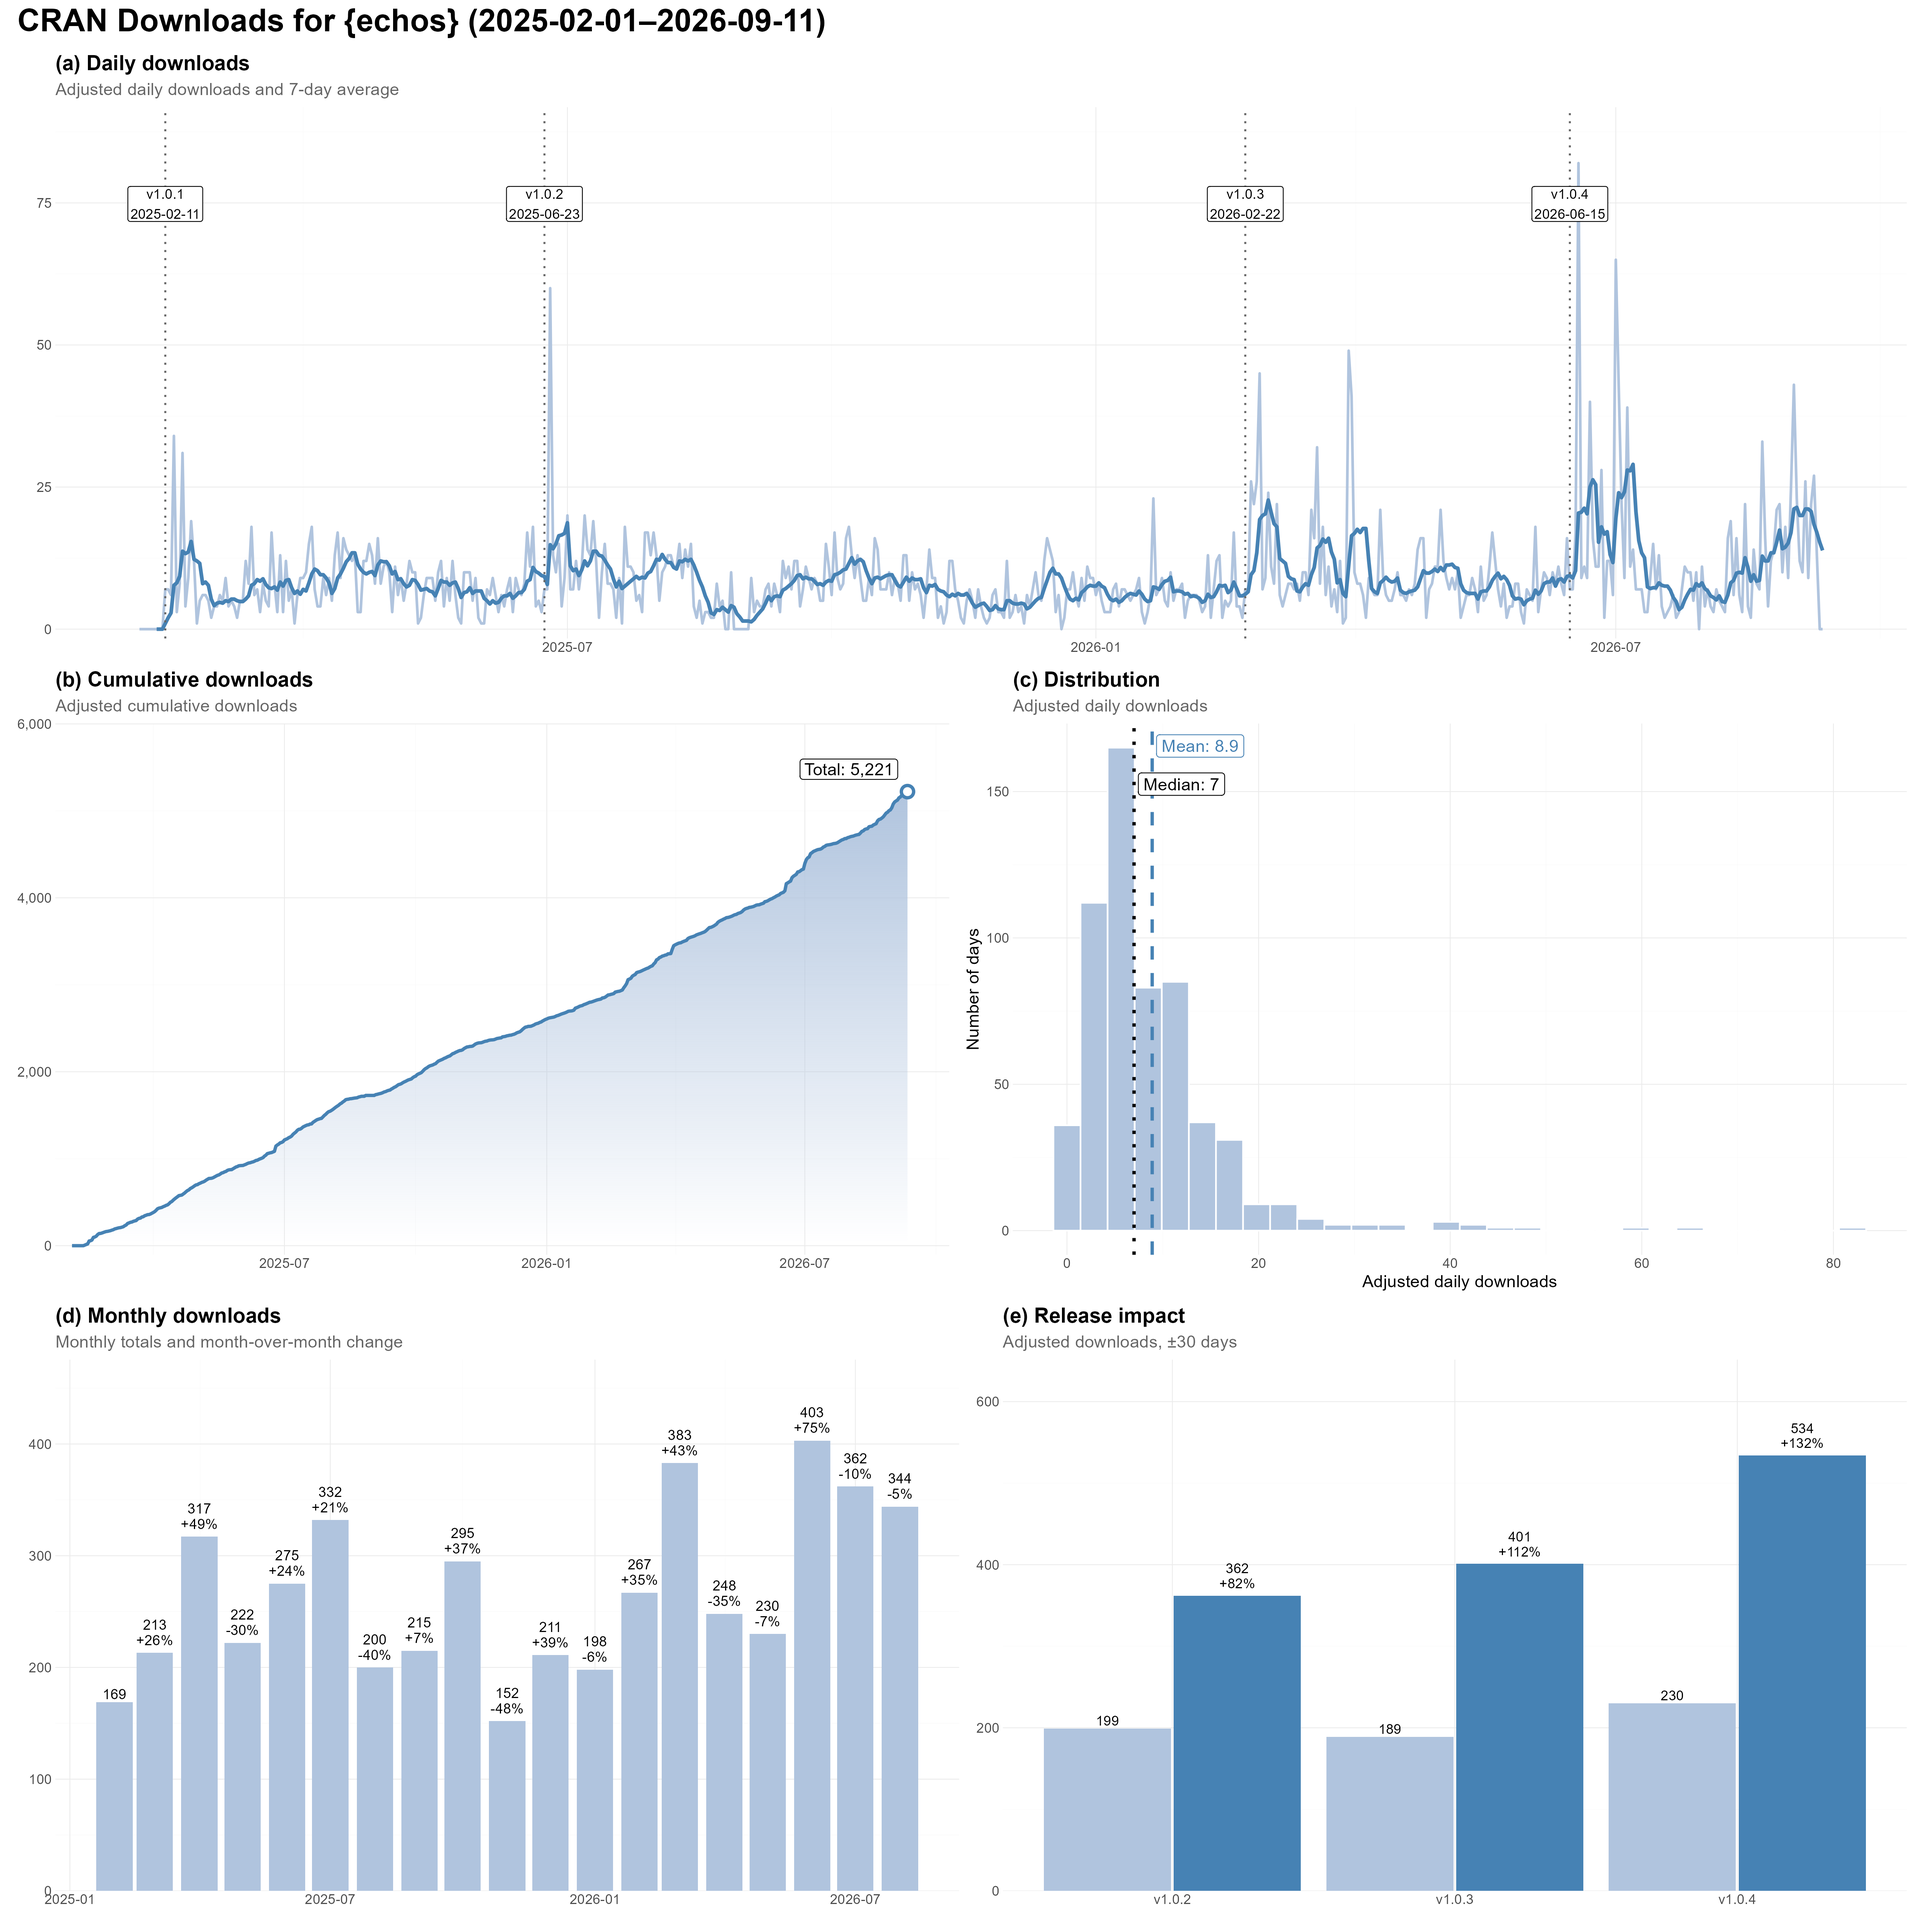
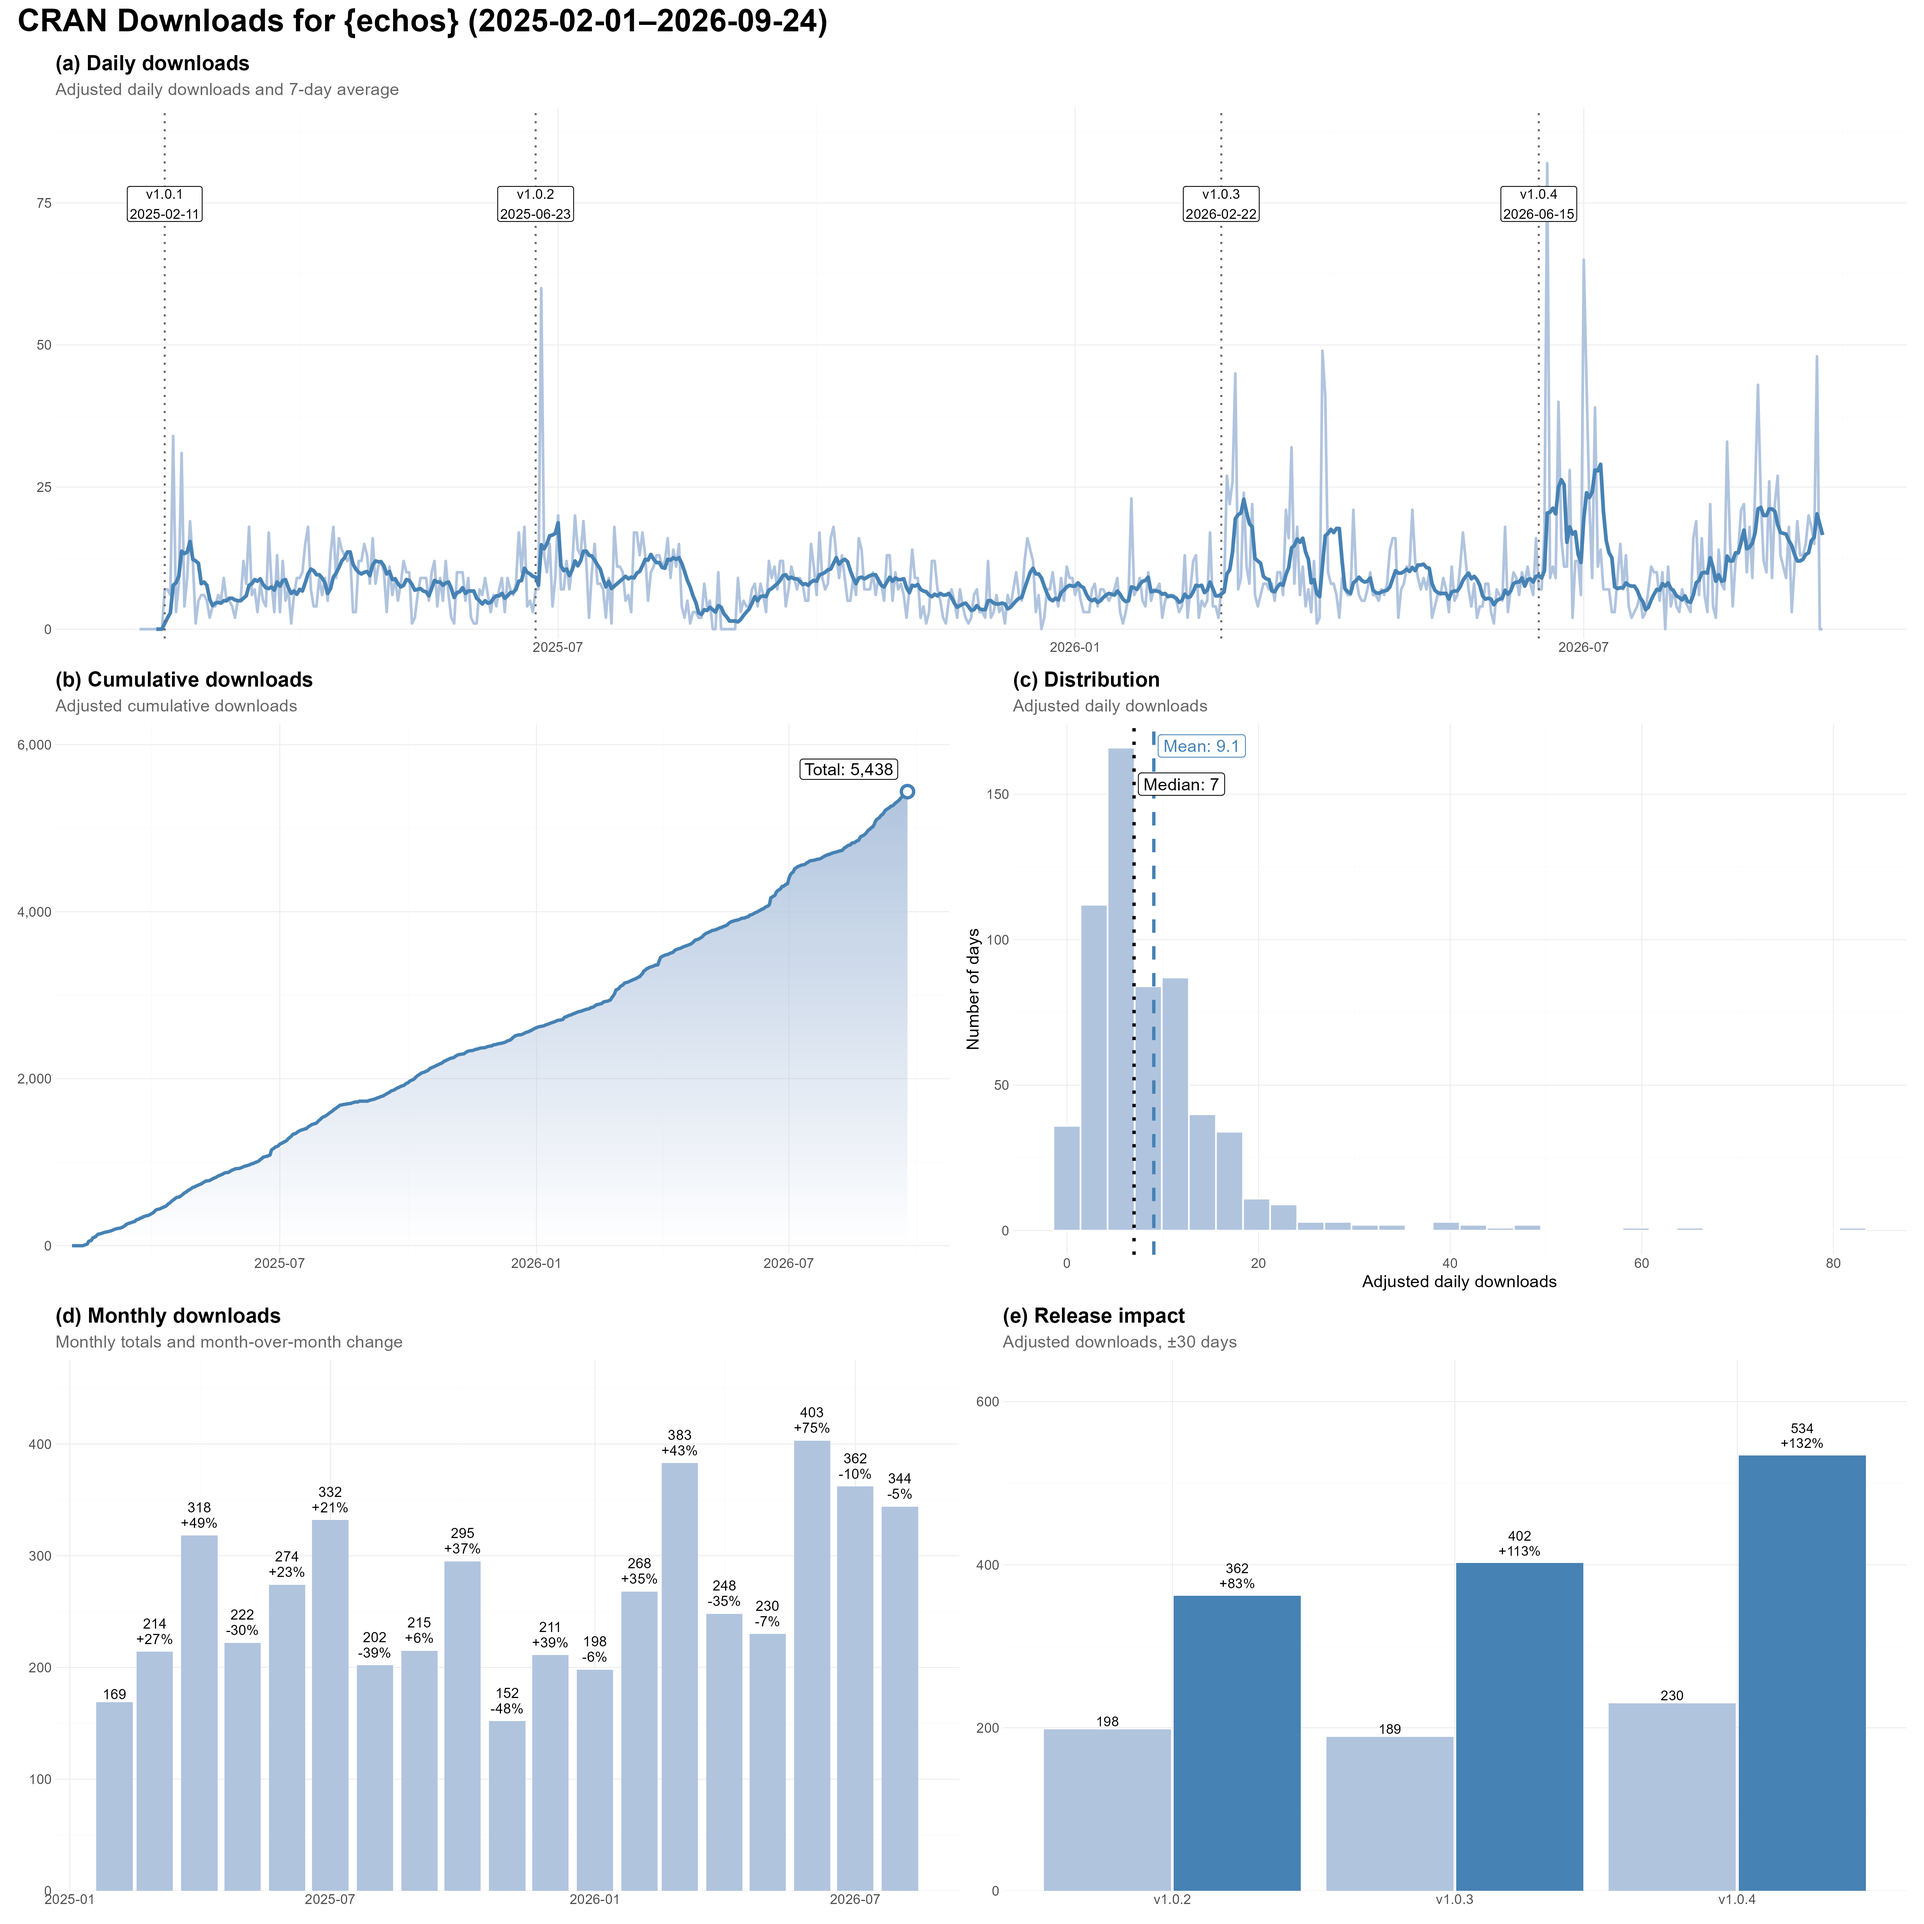
Update

diff --git a/README.md b/README.md
@@ -16,10 +16,10 @@ resulting statistics should nevertheless be understood as estimates
 based on downloads recorded by the RStudio CRAN mirror rather than as
 complete counts across all CRAN mirrors.
 
-## {echos}
+## 📦 R package {echos}
 
 <img src="figure_downloads_echos.png" alt="" width="100%" style="display: block; margin: auto;" />
 
-## {tscv}
+## 📦 R package {tscv}
 
 <img src="figure_downloads_tscv.png" alt="" width="100%" style="display: block; margin: auto;" />
